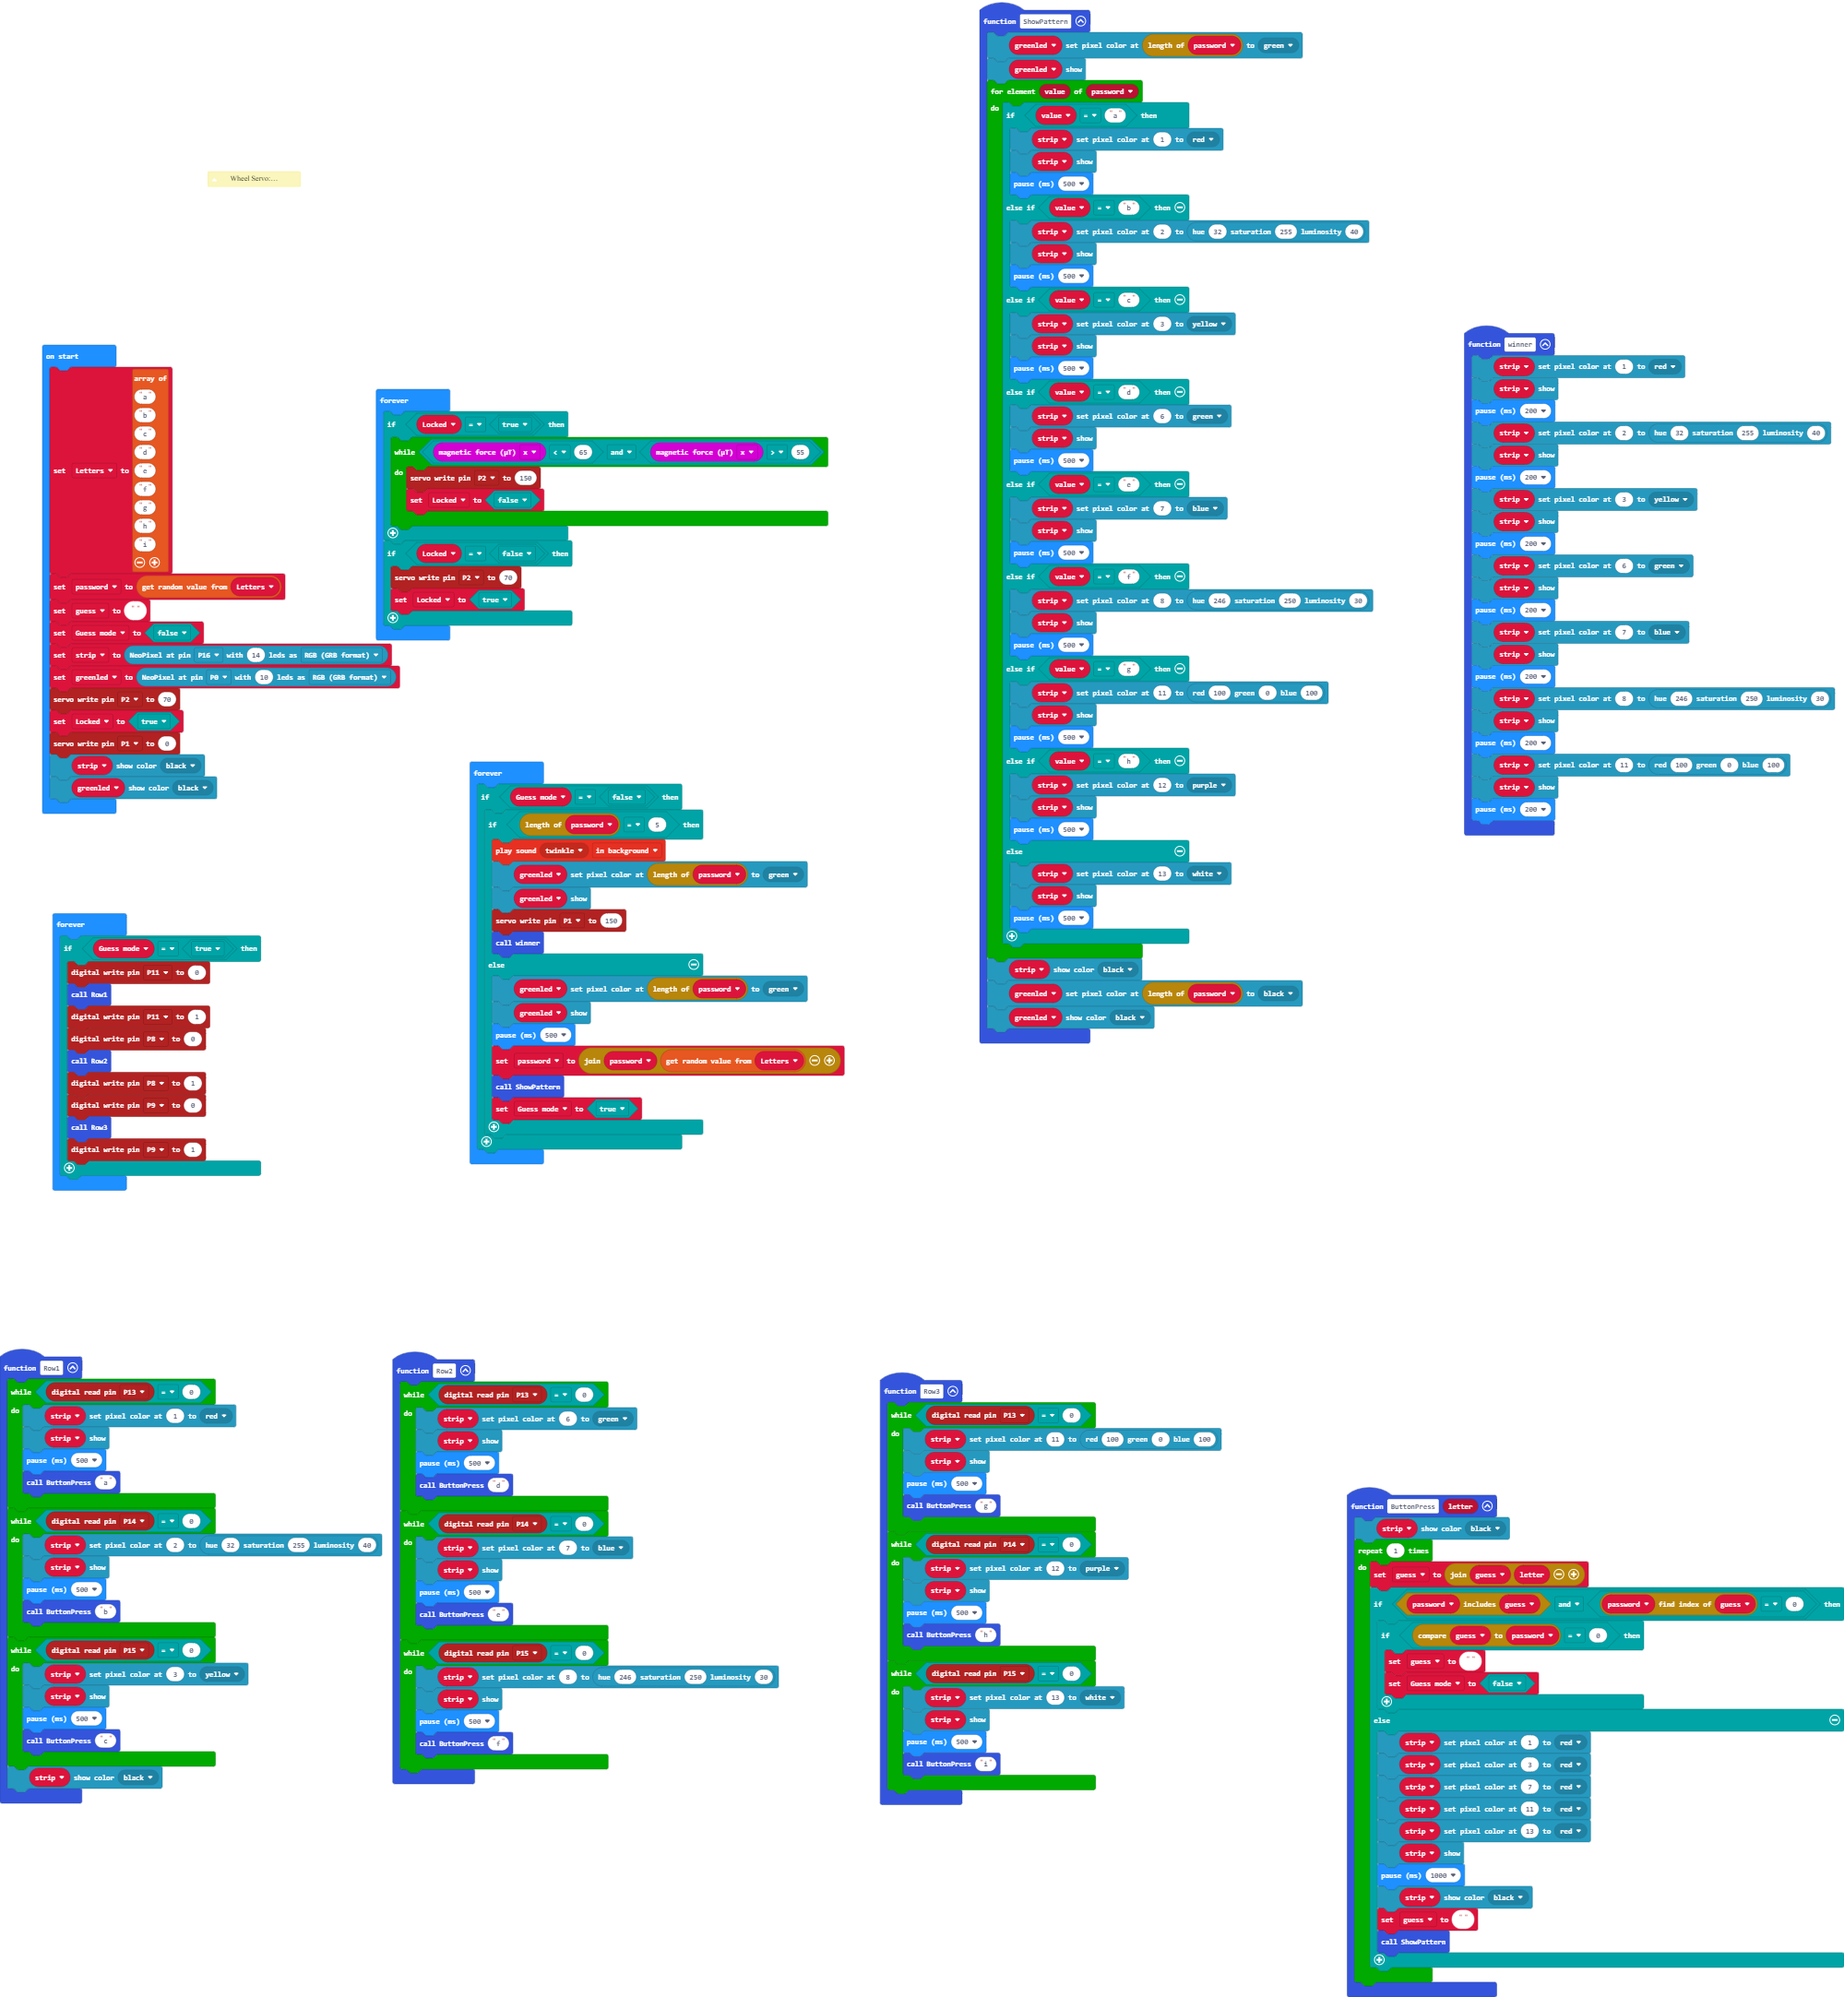
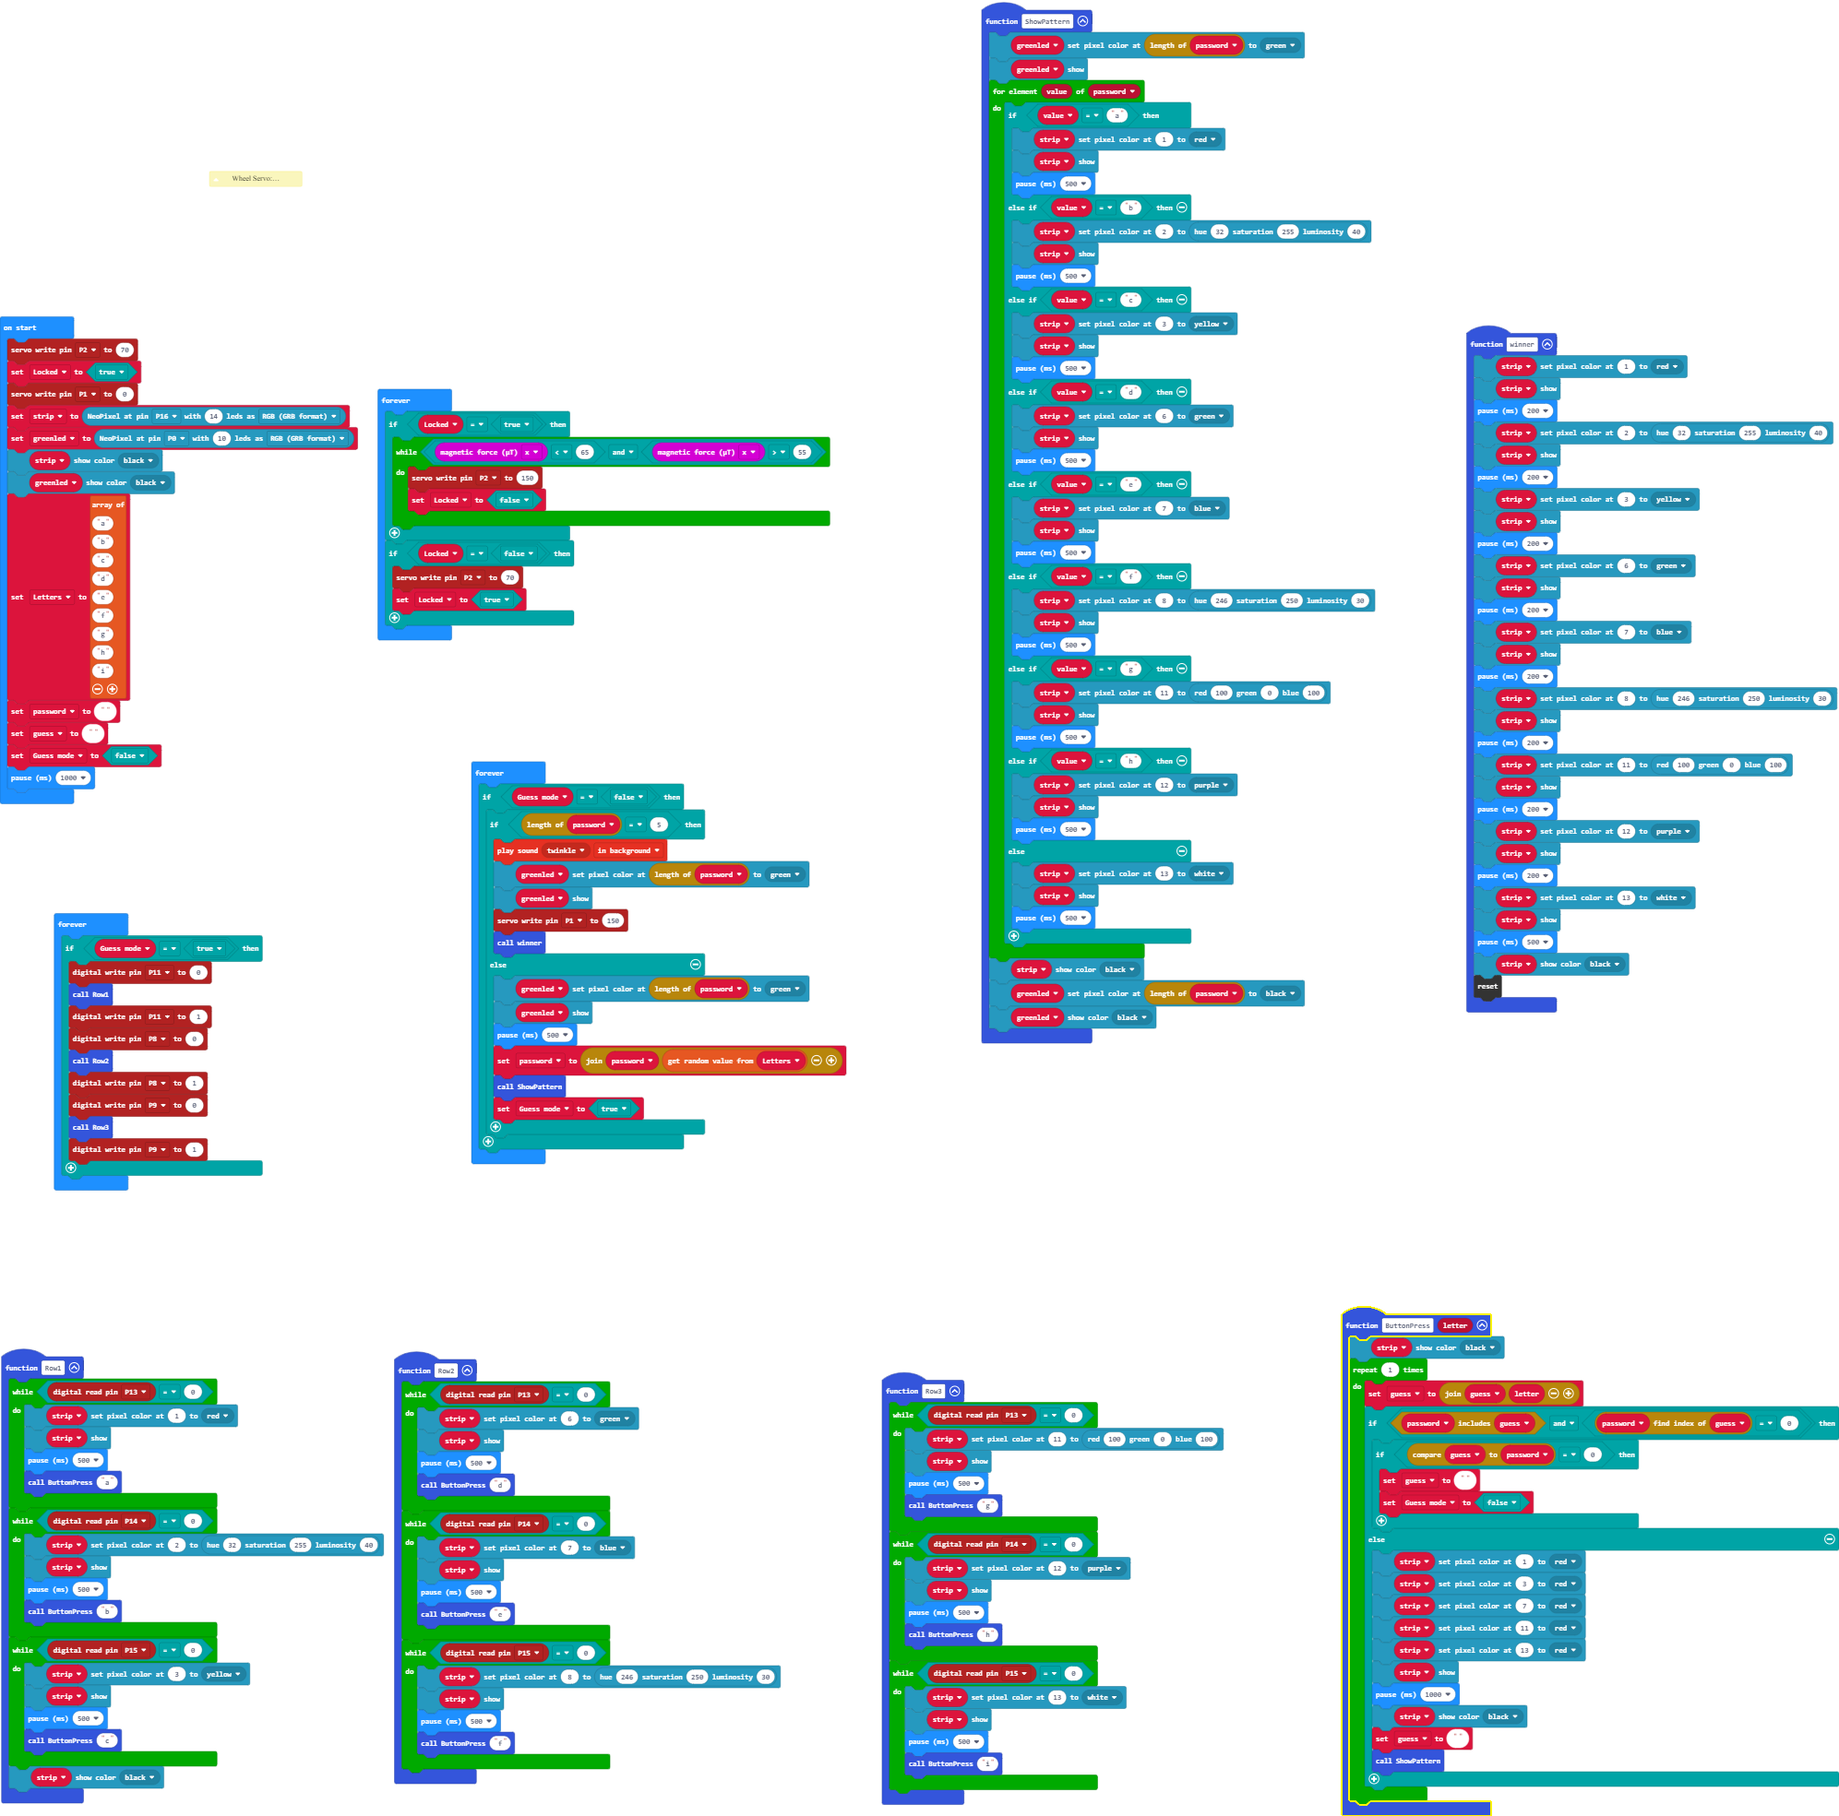
Update main.ts, main.blocks

diff --git a/main.ts b/main.ts
@@ -96,6 +96,14 @@ function winner () {
     strip.setPixelColor(11, neopixel.rgb(100, 0, 100))
     strip.show()
     basic.pause(200)
+    strip.setPixelColor(12, neopixel.colors(NeoPixelColors.Purple))
+    strip.show()
+    basic.pause(200)
+    strip.setPixelColor(13, neopixel.colors(NeoPixelColors.White))
+    strip.show()
+    basic.pause(500)
+    strip.showColor(neopixel.colors(NeoPixelColors.Black))
+    control.reset()
 }
 function Row1 () {
     while (pins.digitalReadPin(DigitalPin.P13) == 0) {
@@ -164,11 +172,18 @@ function ShowPattern () {
     greenled.setPixelColor(password.length, neopixel.colors(NeoPixelColors.Black))
     greenled.showColor(neopixel.colors(NeoPixelColors.Black))
 }
-let greenled: neopixel.Strip = null
-let strip: neopixel.Strip = null
 let Guess_mode = false
 let guess = ""
 let password = ""
+let greenled: neopixel.Strip = null
+let strip: neopixel.Strip = null
+pins.servoWritePin(AnalogPin.P2, 70)
+let Locked = true
+pins.servoWritePin(AnalogPin.P1, 0)
+strip = neopixel.create(DigitalPin.P16, 14, NeoPixelMode.RGB)
+greenled = neopixel.create(DigitalPin.P0, 10, NeoPixelMode.RGB)
+strip.showColor(neopixel.colors(NeoPixelColors.Black))
+greenled.showColor(neopixel.colors(NeoPixelColors.Black))
 let Letters = [
 "a",
 "b",
@@ -180,16 +195,10 @@ let Letters = [
 "h",
 "i"
 ]
-password = Letters._pickRandom()
+password = ""
 guess = ""
 Guess_mode = false
-strip = neopixel.create(DigitalPin.P16, 14, NeoPixelMode.RGB)
-greenled = neopixel.create(DigitalPin.P0, 10, NeoPixelMode.RGB)
-pins.servoWritePin(AnalogPin.P2, 70)
-let Locked = true
-pins.servoWritePin(AnalogPin.P1, 0)
-strip.showColor(neopixel.colors(NeoPixelColors.Black))
-greenled.showColor(neopixel.colors(NeoPixelColors.Black))
+basic.pause(1000)
 basic.forever(function () {
     if (Locked == true) {
         while (input.magneticForce(Dimension.X) < 65 && input.magneticForce(Dimension.X) > 55) {
